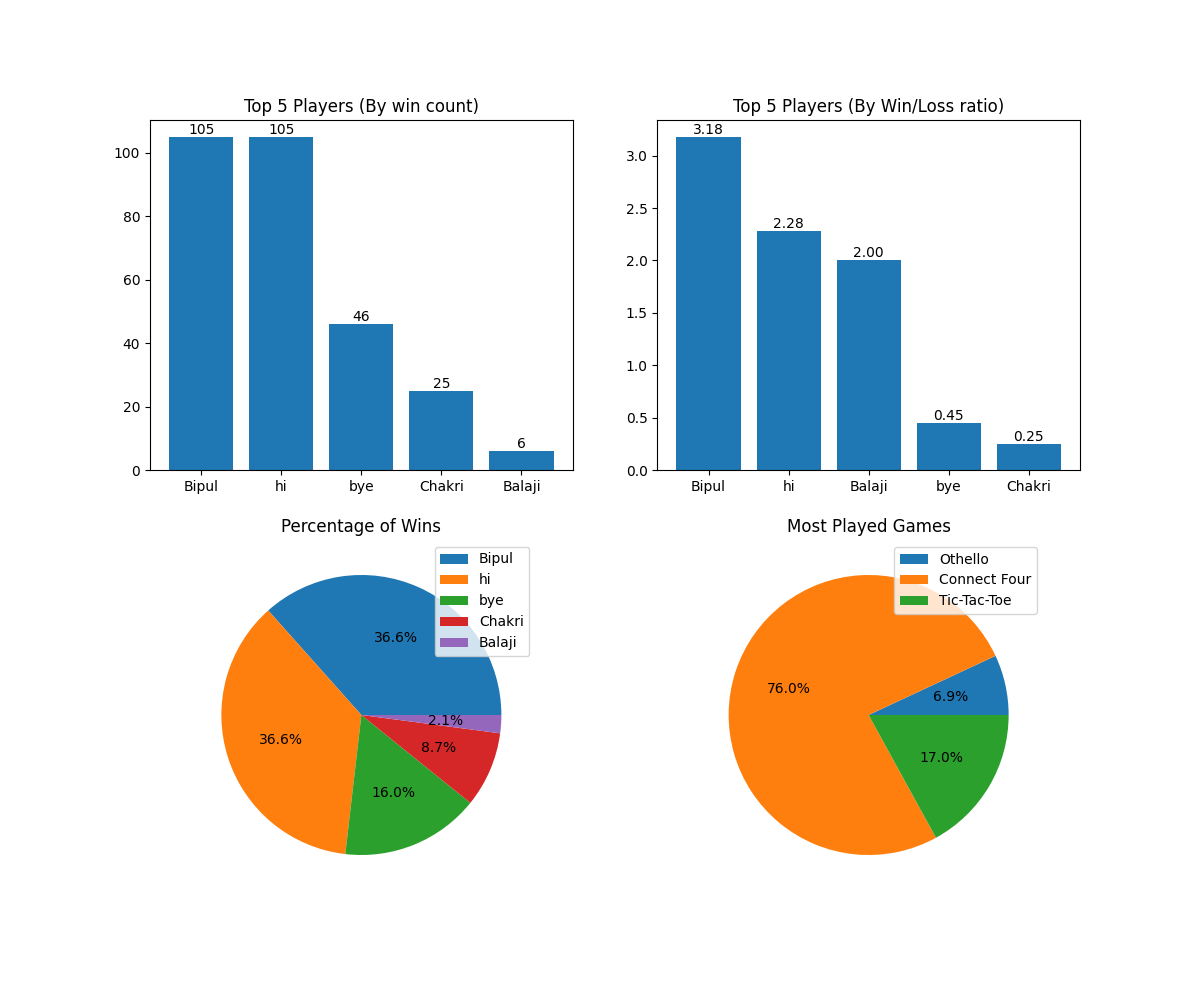
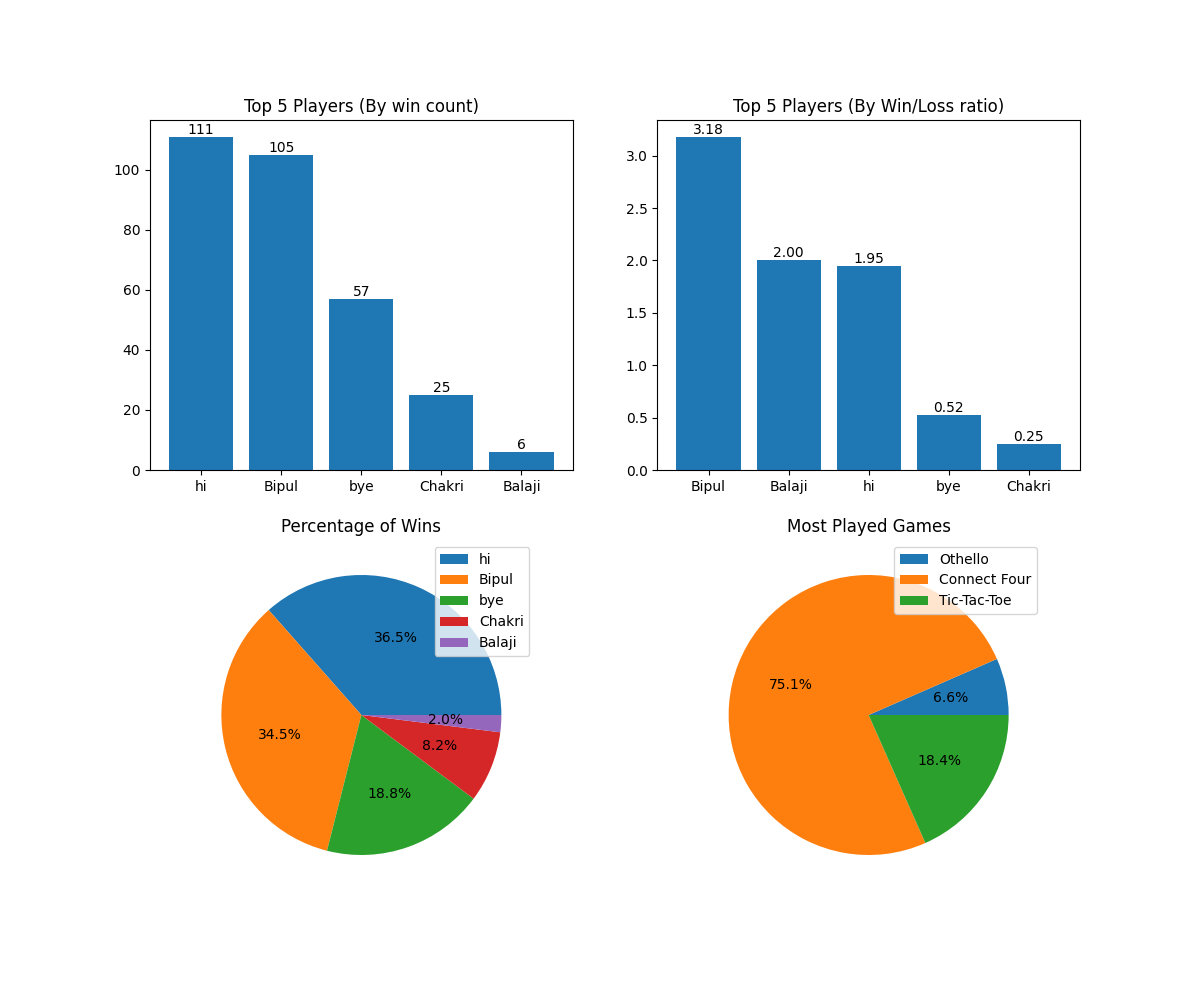
Add sprites in othello.py

diff --git a/games/othello.py b/games/othello.py
@@ -66,6 +66,23 @@ GREEN = (0,255,0)
 GLOW_COLOR1 = (235, 64, 52)
 GLOW_COLOR2 = (52, 92, 235)
 
+#sprite_constanst 
+sprite_ht = [375, 375, 375, 375]
+sprite_wt = [193, 198, 315, 313]
+sprite_pos = [(120, 275), (1204, 275), (55,275), (1204, 275)]
+
+# sprites
+sprite_still_blue = pygame.image.load("images/sprite_still_blue.png")
+sprite_still_red = pygame.image.load("images/sprite_still_red.png")
+sprite_active_blue = pygame.image.load("images/sprite_active_blue.png")
+sprite_active_red = pygame.image.load("images/sprite_active_red.png")
+sprites = [sprite_still_blue, sprite_still_red, sprite_active_blue, sprite_active_red]
+
+for i in range(len(sprites)):
+    sprites[i] = pygame.transform.smoothscale(sprites[i], (sprite_wt[i], sprite_ht[i]))
+
+sprite_rects = [pygame.Rect(*sprite_pos[i], sprite_wt[i], sprite_ht[i]) for i in range(4)]
+
 # make a function to check win condition in new game class
 class othello(Game):
    def check_win(self):
@@ -92,7 +109,7 @@ def update_possible_moves(req_color,board_matrix):
             if board_matrix[i,j] != 0 :
                 continue
             #VERTICAL     x,y = pygame.mouse.get_pos()
-                print(x,y)- DOWN 
+                # print(x,y)- DOWN 
             if j<7 :
                 if board_matrix[i,j+1] == req_color :
                     a,b = i,j+1
@@ -389,6 +406,20 @@ def make_board(screen,board_matrix,Number_font, mouse):
                 if board_matrix[i][j] == 0:
                     make_board_circle(screen,i+1, j+1,0)
 
+
+def make_sprite(screen, status, turn):
+    # status = 0 --> passive
+    # status = 1 --> active
+    screen.blit(sprites[status*2 + turn-1], sprite_rects[status*2 + turn-1])
+
+def update_sprites(screen, turn):
+    if turn == 1:
+        make_sprite(screen, 0, 1)
+        make_sprite(screen, 1, 2)
+    elif turn == 2:
+        make_sprite(screen, 0, 2)
+        make_sprite(screen, 1, 1)
+
 def run(user1,user2, screen):
     INIT_TURN = 1
     player1 = Player(user1)
@@ -418,38 +449,14 @@ def run(user1,user2, screen):
         mouse = pygame.mouse.get_pos()
         turn = game.turn
 
-        if (turn == 1):
-            bg_col = BG_COLOR1
-            col_code = 1
-            title_text = f"{user1}'s turn"
-        else:
-            bg_col = BG_COLOR2
-            col_code = 2
-            title_text = f"{user2}'s turn"
+        piece_code = 1 + turn
         
-        screen.fill(bg_col)
         screen.blit(board_img)
         board_matrix = game_board.matrix
-        update_possible_moves(3-col_code,board_matrix)
-        make_title(screen,title_font,title_text)
-        make_board(screen, board_matrix,Number_font, mouse)
-        win_status = game.check_win()
-
-        if win_status == 1:
-            make_title(screen,title_font,f"{user1} WON!")
-            pygame.display.update()
-    
-        elif win_status == 2:
-            make_title(screen,title_font,f"{user2} WON!")
-            pygame.display.update()
-
-        elif win_status == 0:
-            make_title(screen,title_font,"DRAW!")
-            pygame.display.update()
-
-        command = game.update_result(screen, game, win_status)
-        if command != -1:
-            return command
+        update_possible_moves(3 - piece_code, board_matrix)
+        make_board(screen, board_matrix, Number_font, mouse)
+        update_sprites(screen, piece_code)
+        command = -1
         for event in pygame.event.get():
             if event.type == pygame.QUIT:
                 command = 3
@@ -460,11 +467,18 @@ def run(user1,user2, screen):
                 for i in range(COLS):
                     for j in range(ROWS - 1, -1, -1):
                         if collide_box(i+1,j+1,mouse):
-                            if board_matrix[i][j] != col_code+0.5  : break
-                            make_board_circle(screen,i+1, j+1, col_code)
-                            board_matrix[i][j] = col_code
-                            update_values(i,j,board_matrix)
-                            # update_possible_moves(3-col_code)
+                            print(mouse)
+                            if board_matrix[i][j] != piece_code+0.5 :
+                                break
+                            make_board_circle(screen,i+1, j+1, piece_code)
+                            game.make_move((i, j), piece_code)
+                            update_sprites(screen, piece_code)
+                            
+                            win = game.check_win()
+                            update_values(i, j, board_matrix)
+                            command = game.update_result(screen, game, win)
+                            if command != -1:
+                                return command
                             game.switch_turn()
                             filled = True
                             break
@@ -472,5 +486,7 @@ def run(user1,user2, screen):
                     break
                     
         pygame.display.update()
+        if command != -1:
+            return command
 
     return command

diff --git a/games/tictactoe.py b/games/tictactoe.py
@@ -227,7 +227,8 @@ def run(user1, user2, screen):
                 for i in range(COLS):
                     for j in range(ROWS - 1, -1, -1):
                         if collide_box(i+1,j+1,mouse):
-                            if board_matrix[i][j] != 0 : break
+                            if board_matrix[i][j] != 0 :
+                                break
                             # board_matrix[i][j] = turn
                             game.make_move((i, j), turn)
                             make_board_box(screen, i+1, j+1, turn)

diff --git a/games/connect4.py b/games/connect4.py
@@ -352,7 +352,7 @@ def run(user1, user2, screen):
                 running = False
 
             if event.type == pygame.MOUSEBUTTONDOWN:
-                print(mouse)
+                # print(mouse)
                 if reset_rect.collidepoint(event.pos):
                     game.reset_game()
                     board_matrix = game.board.matrix